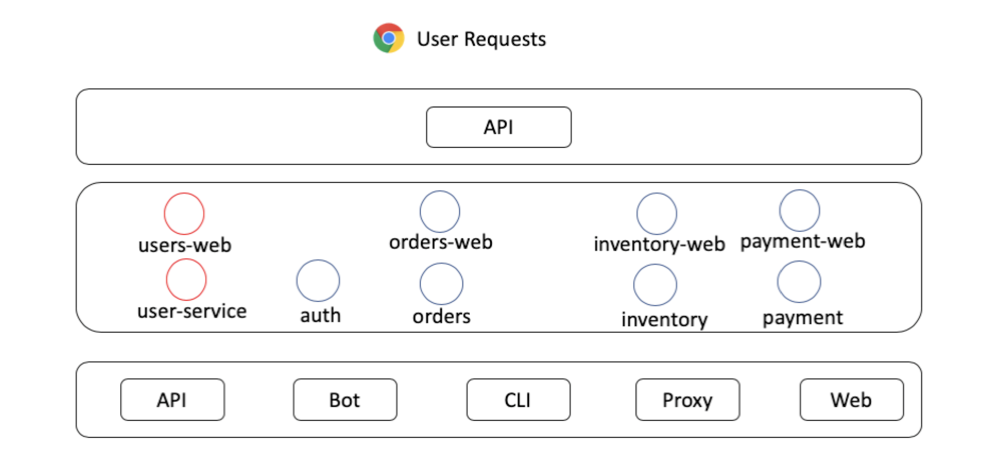
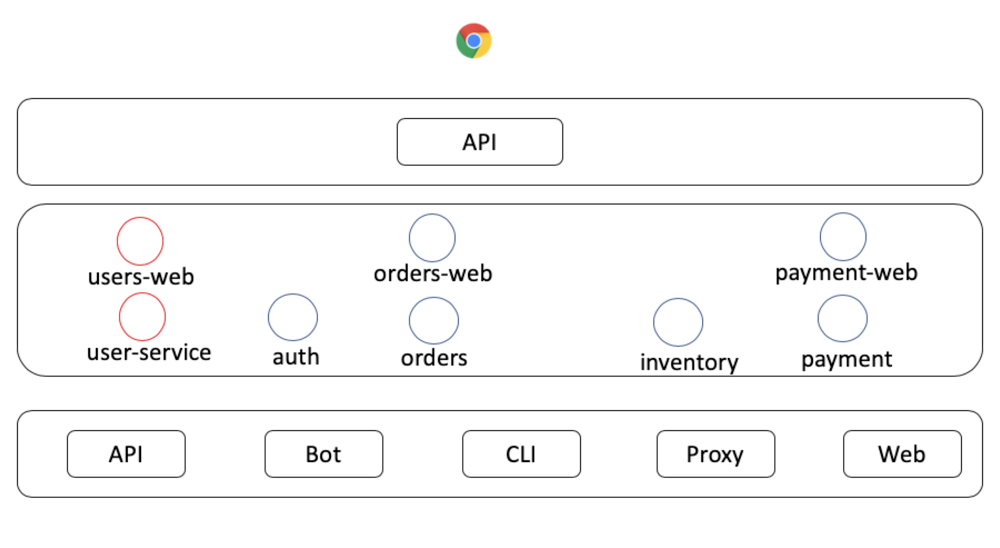
优化示例图

diff --git a/microservice-in-micro/part2/README.md b/microservice-in-micro/part2/README.md
@@ -4,7 +4,7 @@
 
 在本篇中，我们除了完成抽离公用基础包，还要实现请求认证服务auth（session管理我们需要放到下一章节来完成，因为现在我们的web服务太少，不方便看效果）。
 
-后面的章节中，user-web，orders-web，inventory-web等接收到的需要认证的请求都要向auth确认。
+后面的章节中，user-web，orders-web等接收到的需要认证的请求都要向auth确认。
 
 本章我们要实现**Auth**服务的工作架构如下图：
 
@@ -824,7 +824,7 @@ $ curl --request POST \
 
 至此，我们的服务架构完成度如下：（红圈服务为完成）
 
-![](../docs/part2_auth_process.png)
+![](../docs/part2_done_services.png)
 
 但我们工作还不完善：
 
